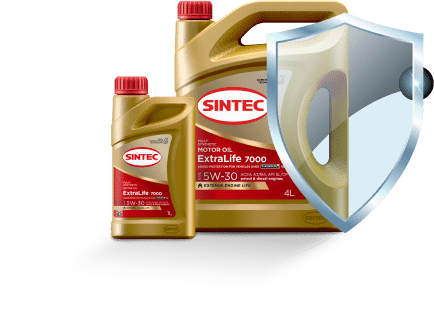
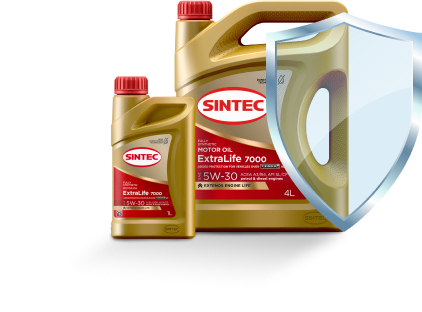
Заменяет картинку в блоке molybdenum

Changed region(s): [[0.2464, 0.0, 1.0, 0.7788]]

diff --git a/build/css/style.min.css b/build/css/style.min.css
@@ -1,2 +1,2 @@
-@charset "UTF-8";*,::after,::before{box-sizing:border-box}body{margin:0}img{max-width:100%;height:auto;object-fit:cover}a{text-decoration:none}.visually-hidden{position:absolute;width:1px;height:1px;margin:-1px;padding:0;border:0;clip:rect(0 0 0 0);overflow:hidden}@font-face{font-family:"Gotham";font-style:normal;font-weight:400;src:url(../fonts/gotham-regular.woff2),url(../fonts/gotham-regular.woff);font-display:swap}.page{height:100%}.page-body{display:grid;grid-template-rows:min-content 1fr min-content;min-width:360px;font-family:"Gotham","Arial",sans-serif;font-weight:400;font-size:14px;line-height:17px;color:#272424;background-color:#fff}.container{width:100%;max-width:1300px;padding:0 15px;margin:0 auto}@media (min-width:768px){.container{padding:0 30px}}.main-header{padding:40px 0 0;margin-bottom:-2px;background-image:url(../img/hero-bg-mobile@1x.png);background-repeat:no-repeat;background-size:cover}@media (min-resolution:2dppx){.main-header{background-image:url(../img/hero-bg-mobile@2x.png)}}@media (min-width:1360px){.main-header{padding:40px 0 0;margin:0;background-image:url(../img/hero-bg-desktop@1x.png)}}@media (min-width:1360px) and (min-resolution:2dppx){.main-header{background-image:url(../img/hero-bg-desktop@2x.png)}}.main-header__title{max-width:330px;margin:65px auto 68px;font-weight:400;font-size:32px;line-height:40px;text-transform:uppercase;text-align:center}@media (min-width:768px){.main-header__title{margin:-90px 0 0 7px;max-width:310px;text-align:left;justify-self:center}}@media (min-width:1360px){.main-header__title{max-width:585px;grid-column:1/7;grid-row:1/-1;font-size:60px;line-height:70px;justify-self:start}}@media (max-width:767px){.main-header__title-part{display:block;margin:0 0 0 10px}}.main-header__img{display:block;margin:0 auto;width:auto}@media (min-width:768px){.main-header__img{margin:0}}@media (min-width:1360px){.main-header__img{min-height:638px}.main-header__logo-img{width:93px;height:50px;margin-left:6px}}.main-header__wrapper{margin-left:-15px}@media (min-width:768px){.main-header__wrapper{display:grid;grid-template-columns:repeat(2,1fr);align-items:center;justify-content:center;column-gap:10px;padding:56px 0 0;margin:0}}@media (min-width:1360px){.main-header__wrapper{grid-template-columns:repeat(12,1fr);column-gap:5px;margin:-5px 0-3px}}.main-header__picture-wrapper{margin:0 0 0-170px}@media (min-width:768px){.main-header__picture-wrapper{justify-self:center}}@media (min-width:1360px){.main-header__picture-wrapper{grid-column:1/-1;grid-row:1/-1;justify-self:unset;margin:0-60px 0 390px}}@media (min-width:1360px) and (max-width:1420px){.main-header__picture-wrapper{margin:0-60px 0 350px}}.title{max-width:330px;margin:0 0 20px;font-weight:400;font-size:24px;line-height:32px;text-transform:uppercase}.title--accent{color:#fff}@media (min-width:1360px){.title{margin:0 0 60px;max-width:490px;font-size:38px;line-height:54px}}.lead{max-width:300px;margin:0 0 20px;font-weight:400;font-size:20px;line-height:24px}.lead--accent{color:#fff}@media (min-width:1360px){.lead{max-width:490px;font-size:32px;line-height:38px}}.message{max-width:300px;margin:0 0 20px;font-weight:400;font-size:14px;line-height:17px}.message--accent{color:#fff}@media (min-width:1360px){.message{font-size:18px;line-height:22px;max-width:490px}}.quality{position:relative;padding:40px 0;margin-bottom:-47px;background-image:url(../img/quality-bg-mobile@1x.png);background-repeat:no-repeat;background-size:cover}@media (min-resolution:2dppx){.quality{background-image:url(../img/quality-bg-mobile@2x.png)}}@media (min-width:768px){.quality{padding:60px 0 0;margin-bottom:0}}@media (min-width:1360px){.quality{padding:152px 0 0;margin-bottom:-2px;background-image:url(../img/quality-bg-desktop@1x.png)}}@media (min-width:1360px) and (min-resolution:2dppx){.quality{background-image:url(../img/quality-bg-desktop@2x.png)}}@media (min-width:768px){.quality__wrapper{display:grid;grid-template-columns:repeat(2,1fr);grid-template-rows:1fr;column-gap:10px;justify-content:center}}@media (min-width:1360px){.quality__wrapper{grid-template-columns:repeat(12,1fr);grid-template-rows:1fr;column-gap:5px}}@media (min-width:768px){.quality__text-wrapper{grid-column:2/-1;grid-row:1/-1;justify-self:center}}@media (min-width:1360px){.quality__text-wrapper{grid-column:9/-1;min-width:490px;margin-right:8px;justify-self:unset}}.quality__message{margin:0 0 318px}@media (min-width:768px){.quality__message{margin:0 0 20px}}@media (min-width:1360px){.quality__message{margin:0 0 60px}}.quality__picture-wrapper{margin:45px 0 0-165px;position:relative}@media (min-width:768px){.quality__picture-wrapper{grid-column:1/2;grid-row:1/-1;justify-self:center}}@media (min-width:1360px){.quality__picture-wrapper{grid-column:1/9;margin:0 0 0-325px;justify-self:unset}}.quality__img{position:absolute;bottom:50px;left:50%;display:block;margin:0 auto;width:auto;min-height:330px;transform:translateX(-50%)}@media (min-width:768px){.quality__img{margin:0;width:auto;position:static;bottom:unset;left:unset;transform:unset}}@media (min-width:1360px){.quality__img{min-height:630px}}@media (min-width:768px){.quality__button{max-width:305px}}.quality__break{display:none}@media (min-width:1360px){.quality__break{display:inline}}.button{display:block;padding:14px;font-family:inherit;font-size:14px;line-height:26px;text-align:center;border-radius:50px;text-decoration:none;cursor:pointer;transition:all .3s ease}.button--primary{color:#e2000f;background-color:#fff;border:1px solid #e2000f}.button--primary:hover{color:#fff;background-color:#e2000f}.button--primary:active{color:rgba(255,255,255,.6)}.button--secondary{color:#fff;background-color:transparent;border:1px solid #fff}.button--secondary:hover{color:#e2000f;background-color:#fff;border:1px solid #e2000f}.button--secondary:active{color:rgba(226,0,15,.3)}@media (min-width:1360px){.button{font-size:18px}}.assortment{position:relative;padding:40px 0 31px;background-image:url(../img/assortment-bg-mobile@1x.jpg);background-color:#e2000f;background-repeat:no-repeat;background-size:cover}@media (min-resolution:2dppx){.assortment{background-image:url(../img/assortment-bg-mobile@2x.jpg)}}@media (min-width:768px){.assortment{padding:60px 0}}@media (min-width:1360px){.assortment{padding:72px 0 67px;background-image:url(../img/assortment-bg-desktop@1x.jpg)}}@media (min-width:1360px) and (min-resolution:2dppx){.assortment{background-image:url(../img/assortment-bg-desktop@2x.jpg)}}@media (min-width:768px){.assortment__wrapper{display:grid;grid-template-columns:repeat(2,1fr);grid-template-rows:1fr;column-gap:10px;align-items:center}}@media (min-width:1360px){.assortment__wrapper{grid-template-columns:repeat(12,1fr);column-gap:5px}}@media (min-width:768px){.assortment__text-wrapper{grid-column:1/2;grid-row:1/-1;justify-self:center}}@media (min-width:1360px){.assortment__text-wrapper{grid-column:1/6;grid-row:1/-1;justify-self:start;margin-left:7px}}.assortment__picture-wrapper{margin:0-15px;position:relative}@media (min-width:768px){.assortment__picture-wrapper{grid-column:2/-1;grid-row:1/-1}}@media (min-width:1360px){.assortment__picture-wrapper{grid-column:5/-1;grid-row:1/-1;margin:114px -35px 0}}.assortment__lead{max-width:330px}@media (min-width:1360px){.assortment__lead{max-width:490px}}.assortment__message{margin:0 0 327px}@media (min-width:768px){.assortment__message{margin:0 0 20px}}@media (min-width:1360px){.assortment__message{margin:0 0 60px}}.assortment__img{position:absolute;bottom:57px;left:50%;display:block;margin:0 auto 24px;width:auto;min-height:243px;transform:translate(-50%)}@media (min-width:768px){.assortment__img{position:static;bottom:unset;left:unset;transform:unset;margin:0;align-self:end}}@media (min-width:1360px){.assortment__img{min-height:527px;margin-left:52px}}@media (min-width:768px){.assortment__button{padding:13px;max-width:223px}}.technology{padding:40px 0 0;margin-bottom:-53px;background-image:url(../img/technology-car-mobile@1x.png),url(../img/technology-bg-mobile@1x.png);background-repeat:no-repeat;background-size:contain,cover;background-position:right 0,center}@media (min-resolution:2dppx){.technology{background-image:url(../img/technology-car-mobile@2x.png),url(../img/technology-bg-mobile@2x.png)}}@media (min-width:768px){.technology{padding:60px 0 0;margin:0;background-position:right -10px top -50px,center}}@media (min-width:1360px){.technology{padding:45px 0 0;background-image:url(../img/technology-car-desktop@1x.png),url(../img/technology-bg-desktop@1x.png);background-position:right 0 top 0,center}}@media (min-width:1360px) and (min-resolution:2dppx){.technology{background-image:url(../img/technology-car-desktop@2x.png),url(../img/technology-bg-desktop@2x.png)}}.technology__wrapper{margin-left:-6px}@media (min-width:768px){.technology__wrapper{display:grid;grid-template-columns:repeat(2,1fr);grid-template-rows:1fr;column-gap:10px;align-items:center;margin:0}}@media (min-width:1360px){.technology__wrapper{grid-template-columns:repeat(12,1fr)}}.technology__text-wrapper{margin-left:6px}@media (min-width:768px){.technology__text-wrapper{justify-self:center;margin:0}}@media (min-width:1360px){.technology__text-wrapper{grid-column:1/6;grid-row:1/-1;margin-left:-4px}}.technology__picture-wrapper{margin:0 0 0-145px}@media (min-width:1360px){.technology__picture-wrapper{grid-column:1/-2;grid-row:1/-1;margin:117px -30px 0 370px}.technology__title{margin:0 0 37px}}.technology__message{max-width:330px}@media (min-width:1360px){.technology__message{max-width:490px}}.technology__comment{margin:0 0 42px;font-size:12px;line-height:14px;color:gray}@media (min-width:1360px){.technology__break{display:none}}.technology__img{display:block;margin:0 auto;width:auto;min-height:410px}@media (min-width:768px){.technology__img{margin:0}}@media (min-width:1360px){.technology__img{min-height:620px}}.expert{padding:60px 0 40px;background-image:url(../img/expert-bg-mobile@1x.png);background-repeat:no-repeat;background-size:cover}@media (min-resolution:2dppx){.expert{background-image:url(../img/expert-bg-mobile@2x.png)}}@media (min-width:361px){.expert{background-image:url(../img/expert-bg-desktop@1x.png)}}@media (min-width:361px) and (min-resolution:2dppx){.expert{background-image:url(../img/expert-bg-desktop@2x.png)}}@media (min-width:768px){.expert{padding:0}}@media (min-width:1360px){.expert{padding:265px 0 0;margin-bottom:-4px}}@media (min-width:768px){.expert__wrapper{display:grid;grid-template-columns:repeat(2,1fr);grid-template-rows:1fr;column-gap:10px;align-items:center}}@media (min-width:1360px){.expert__wrapper{grid-template-columns:repeat(12,1fr);column-gap:5px;align-items:unset}}@media (min-width:768px){.expert__text-wrapper{grid-column:2/-1;grid-row:1/-1;justify-self:center}}@media (min-width:1360px){.expert__text-wrapper{grid-column:8/-1;margin-left:6px}}.expert__picture-wrapper{margin:0 0 0-40px}@media (min-width:768px){.expert__picture-wrapper{justify-self:center}}@media (min-width:1360px){.expert__picture-wrapper{grid-column:1/8;margin:-115px 0 0-255px}}@media (min-width:1360px) and (max-width:1420px){.expert__picture-wrapper{margin:-115px 0 0-210px}}.expert__title{margin:0 0 40px}.expert__img{display:block;margin:-40px auto -46px;width:auto;min-height:365px}@media (min-width:768px){.expert__img{margin:0}}.main-footer{padding:40px 0;background-color:#005bff}@media (min-width:768px){.main-footer{padding:60px 0}}@media (min-width:1360px){.main-footer{padding:80px 0}}@media (min-width:768px){.main-footer__wrapper{display:flex;align-items:center;justify-content:center}}@media (min-width:1360px){.main-footer__wrapper{justify-content:start}}.main-footer__text{max-width:300px;margin:0 auto 20px;text-align:center;font-size:24px;line-height:32px}@media (min-width:768px){.main-footer__text{max-width:unset;margin:0 40px 0 0;text-align:left}}@media (min-width:1360px){.main-footer__text{margin:0 110px 0 9px;font-size:38px;line-height:54px}}.main-footer__link{display:flex;justify-content:center;align-items:center;padding:20px 40px;color:#005bff;background-color:#fff;border-radius:10px}.main-footer__link:hover{opacity:.8}.main-footer__link:active{opacity:.6}@media (min-width:768px){.main-footer__link{max-width:217px}}.case-header{padding:40px 0;background-image:url(../img/case/hero-bg-mobile@1x.png)}@media (min-resolution:2dppx){.case-header{background-image:url(../img/case/hero-bg-mobile@2x.png)}}@media (min-width:1360px){.case-header{background-image:url(../img/case/hero-bg-desktop@1x.png);padding:40px 0 0}}@media (min-width:1360px) and (min-resolution:2dppx){.case-header{background-image:url(../img/case/hero-bg-desktop@2x.png)}}.case-header__title{margin:18px auto;font-weight:400;font-size:32px;line-height:40px;text-align:center}@media (min-width:768px){.case-header__title{text-align:left;justify-self:center}}@media (min-width:1360px){.case-header__title{margin:0 0 40px;font-size:60px;line-height:70px;justify-self:start}}.case-header__part{text-transform:uppercase}.case-header__lead{margin:0 auto 315px;text-align:center}@media (min-width:768px){.case-header__lead{margin:0 0 40px;max-width:600px;text-align:left}}@media (min-width:1360px){.case-header__lead{margin:0 0 60px}}.case-header__lead span{display:block}.case-header__text{min-width:320px;margin:0 0 0-10px}@media (min-width:768px){.case-header__text{margin:0}}.case-header__text-wrapper{margin:0 0 0 130px}@media (min-width:768px){.case-header__text-wrapper{margin:0;justify-self:center}}@media (min-width:1360px){.case-header__text-wrapper{grid-column:1/7;grid-row:1/-1;justify-self:unset;margin:-95px 0 0 10px}}.case-header__img{position:absolute;top:152px;left:50%;display:block;margin:0 auto;width:auto;min-height:302px;transform:translate(-50%)}@media (min-width:768px){.case-header__img{position:static;top:unset;left:unset;transform:unset;margin:0 0 0-50px}}.case-header__wrapper{position:relative;margin:0 0 0-140px}@media (min-width:768px){.case-header__wrapper{display:grid;grid-template-columns:repeat(2,1fr);align-items:center;justify-content:center;column-gap:70px;margin:0}}@media (min-width:1360px){.case-header__wrapper{grid-template-columns:repeat(12,1fr);column-gap:5px;margin:0-80px 0 0}}@media (min-width:1360px) and (max-width:1560px){.case-header__wrapper{margin:0}}@media (min-width:768px){.case-header__picture-wrapper{justify-self:center;margin:0 0 0-50px}}@media (min-width:1360px){.case-header__picture-wrapper{grid-column:5/-1;grid-row:1/-1;justify-self:unset;margin:-5px -80px 0-15px}}@media (min-width:1360px) and (max-width:1560px){.case-header__picture-wrapper{margin:0}}.case-header__button{margin:10px 0 0;font-size:18px;display:none}@media (min-width:768px){.case-header__button{max-width:270px}}.alkali{padding:40px 0 70px;margin:0 0-1px;background-image:url(../img/case/alkali-bg-mobile@1x.png);background-repeat:no-repeat;background-size:cover}@media (min-resolution:2dppx){.alkali{background-image:url(../img/case/alkali-bg-mobile@2x.png)}}@media (min-width:1360px){.alkali{background-image:url(../img/case/alkali-bg-desktop@1x.png);padding:158px 0 0;margin:0 0-4px}}@media (min-width:1360px) and (min-resolution:2dppx){.alkali{background-image:url(../img/case/alkali-bg-desktop@2x.png)}}.alkali__title{margin:0 0 72px}@media (min-width:768px){.alkali__title{text-align:left;justify-self:center;margin:0}}@media (min-width:1360px){.alkali__title{justify-self:start;align-self:center}}@media (min-width:768px){.alkali__text-wrapper{grid-column:2/-1;grid-row:1/-1;justify-self:center}}@media (min-width:1360px){.alkali__text-wrapper{grid-column:8/-1;grid-row:1/-1;justify-self:unset;margin:-160px 0 0 20px}}.alkali__img{display:block;margin:0 auto;width:auto;min-height:330px}@media (min-width:1360px){.alkali__img{min-height:625px}}@media (min-width:768px){.alkali__wrapper{display:grid;grid-template-columns:repeat(2,1fr);align-items:center;justify-content:center;column-gap:70px;margin:0}}@media (min-width:1360px){.alkali__wrapper{grid-template-columns:repeat(12,1fr);column-gap:5px}}.alkali__picture-wrapper{margin:0 0 0-20px}@media (min-width:768px){.alkali__picture-wrapper{justify-self:center}}@media (min-width:1360px){.alkali__picture-wrapper{margin:0 0 0-190px;grid-column:1/7;grid-row:1/-1;justify-self:unset}}.stability{padding:40px 0 39px;background-image:url(../img/assortment-bg-mobile@1x.jpg);background-repeat:no-repeat;background-size:cover}@media (min-resolution:2dppx){.stability{background-image:url(../img/assortment-bg-mobile@2x.jpg)}}@media (min-width:1360px){.stability{background-image:url(../img/assortment-bg-desktop@1x.jpg);padding:148px 0}}@media (min-width:1360px) and (min-resolution:2dppx){.stability{background-image:url(../img/assortment-bg-desktop@2x.jpg)}}@media (min-width:1360px){.stability__title{margin:0 0 20px;max-width:595px}}.stability__message{margin:0 0 60px;max-width:330px}@media (min-width:768px){.stability__message{margin:0}}@media (min-width:1360px){.stability__message{max-width:560px}}@media (min-width:768px){.stability__break{display:none}.stability__text-wrapper{grid-column:1/2;grid-row:1/-1;justify-self:center}}@media (min-width:1360px){.stability__text-wrapper{grid-column:1/7;grid-row:1/-1;justify-self:unset;margin:0 0 0 10px}}.stability__img{display:block;margin:0 auto;width:auto;min-height:270px}@media (min-width:1360px){.stability__img{min-height:484px}}@media (min-width:768px){.stability__wrapper{display:grid;grid-template-columns:repeat(2,1fr);align-items:center;justify-content:center;column-gap:70px}}@media (min-width:1360px){.stability__wrapper{grid-template-columns:repeat(12,1fr);column-gap:30px}}@media (min-width:768px){.stability__picture-wrapper{justify-self:center;grid-column:2/-1;grid-row:1/-1}}@media (min-width:1360px){.stability__picture-wrapper{grid-column:7/-1;grid-row:1/-1;justify-self:unset}}.molybdenum{padding:110px 0 0;background-image:url(../img/case/molybdenum-bg-mobile@1x.png);background-repeat:no-repeat;background-size:cover}@media (min-resolution:2dppx){.molybdenum{background-image:url(../img/case/molybdenum-bg-mobile@2x.png)}}@media (min-width:768px){.molybdenum{padding:40px 0 0}}@media (min-width:1360px){.molybdenum{background-image:url(../img/case/molybdenum-bg-desktop@1x.png);padding:142px 0 0;margin:0 0-4px}}@media (min-width:1360px) and (min-resolution:2dppx){.molybdenum{background-image:url(../img/case/molybdenum-bg-desktop@2x.png)}}.molybdenum__title{margin:0 0 76px}@media (min-width:768px){.molybdenum__title{margin:0}.molybdenum__text-wrapper{grid-column:1/2;grid-row:1/-1;justify-self:center;margin:-40px 0 0}}@media (min-width:1360px){.molybdenum__text-wrapper{grid-column:1/6;grid-row:1/-1;justify-self:unset;margin:-145px 0 0 5px}}.molybdenum__img{display:block;margin:0 auto;width:auto;min-height:310px}@media (min-width:1360px){.molybdenum__img{min-height:642px}}@media (min-width:768px){.molybdenum__wrapper{display:grid;grid-template-columns:repeat(2,1fr);align-items:center;justify-content:center;column-gap:70px}}@media (min-width:1360px){.molybdenum__wrapper{grid-template-columns:repeat(12,1fr);column-gap:30px}}.molybdenum__picture-wrapper{margin:0 0 0-95px}@media (min-width:768px){.molybdenum__picture-wrapper{justify-self:center;grid-column:2/-1;grid-row:1/-1}}@media (min-width:1360px){.molybdenum__picture-wrapper{grid-column:4/-1;grid-row:1/-1;justify-self:unset;margin:0 0 0 80px}}.antiwear{padding:25px 0 0;margin:0 0-32px;background-image:url(../img/case/antiwear-car-mobile@1x.png),url(../img/case/antiwear-bg-mobile@1x.png);background-repeat:no-repeat;background-size:contain,cover;background-position:left 0 top -18px,center}@media (min-resolution:2dppx){.antiwear{background-image:url(../img/case/antiwear-car-mobile@2x.png),url(../img/case/antiwear-bg-mobile@2x.png)}}@media (min-width:768px){.antiwear{padding:25px 0 0;margin:0}}@media (min-width:1360px){.antiwear{background-image:url(../img/case/antiwear-car-desktop@1x.png),url(../img/case/antiwear-bg-desktop@1x.png);padding:127px 0 2px;background-position:left 0 top 0,center}}@media (min-width:1360px) and (min-resolution:2dppx){.antiwear{background-image:url(../img/case/antiwear-car-desktop@2x.png),url(../img/case/antiwear-bg-desktop@2x.png)}}@media (min-width:1360px) and (max-width:1850px){.antiwear{background-position:left -220px top 0,center}}.antiwear__title{margin:0 0 93px}@media (min-width:768px){.antiwear__title{margin:0}.antiwear__text-wrapper{grid-column:2/-1;grid-row:1/-1;justify-self:center}}@media (min-width:1360px){.antiwear__text-wrapper{grid-column:8/-1;grid-row:1/-1;justify-self:unset;margin:-120px 0 0}}.antiwear__img{display:block;margin:0 auto;width:auto;min-height:410px}@media (min-width:1360px){.antiwear__img{min-height:650px}}@media (min-width:768px){.antiwear__wrapper{display:grid;grid-template-columns:repeat(2,1fr);align-items:center;justify-content:center;column-gap:70px}}@media (min-width:1360px){.antiwear__wrapper{grid-template-columns:repeat(12,1fr);column-gap:30px}}.antiwear__picture-wrapper{margin:0 0 0-80px}@media (min-width:768px){.antiwear__picture-wrapper{justify-self:center;grid-column:1/2;grid-row:1/-1}}@media (min-width:1360px){.antiwear__picture-wrapper{grid-column:1/7;grid-row:1/-1;justify-self:unset;margin:0 0 0-190px}}
+@charset "UTF-8";*,::after,::before{box-sizing:border-box}body{margin:0}img{max-width:100%;height:auto;object-fit:cover}a{text-decoration:none}.visually-hidden{position:absolute;width:1px;height:1px;margin:-1px;padding:0;border:0;clip:rect(0 0 0 0);overflow:hidden}@font-face{font-family:"Gotham";font-style:normal;font-weight:400;src:url(../fonts/gotham-regular.woff2),url(../fonts/gotham-regular.woff);font-display:swap}.page{height:100%}.page-body{display:grid;grid-template-rows:min-content 1fr min-content;min-width:360px;font-family:"Gotham","Arial",sans-serif;font-weight:400;font-size:14px;line-height:17px;color:#272424;background-color:#fff}.container{width:100%;max-width:1300px;padding:0 15px;margin:0 auto}@media (min-width:768px){.container{padding:0 30px}}.main-header{padding:40px 0 0;margin-bottom:-2px;background-image:url(../img/hero-bg-mobile@1x.png);background-repeat:no-repeat;background-size:cover}@media (min-resolution:2dppx){.main-header{background-image:url(../img/hero-bg-mobile@2x.png)}}@media (min-width:1360px){.main-header{padding:40px 0 0;margin:0;background-image:url(../img/hero-bg-desktop@1x.png)}}@media (min-width:1360px) and (min-resolution:2dppx){.main-header{background-image:url(../img/hero-bg-desktop@2x.png)}}.main-header__title{max-width:330px;margin:65px auto 68px;font-weight:400;font-size:32px;line-height:40px;text-transform:uppercase;text-align:center}@media (min-width:768px){.main-header__title{margin:-90px 0 0 7px;max-width:310px;text-align:left;justify-self:center}}@media (min-width:1360px){.main-header__title{max-width:585px;grid-column:1/7;grid-row:1/-1;font-size:60px;line-height:70px;justify-self:start}}@media (max-width:767px){.main-header__title-part{display:block;margin:0 0 0 10px}}.main-header__img{display:block;margin:0 auto;width:auto}@media (min-width:768px){.main-header__img{margin:0}}@media (min-width:1360px){.main-header__img{min-height:638px}.main-header__logo-img{width:93px;height:50px;margin-left:6px}}.main-header__wrapper{margin-left:-15px}@media (min-width:768px){.main-header__wrapper{display:grid;grid-template-columns:repeat(2,1fr);align-items:center;justify-content:center;column-gap:10px;padding:56px 0 0;margin:0}}@media (min-width:1360px){.main-header__wrapper{grid-template-columns:repeat(12,1fr);column-gap:5px;margin:-5px 0-3px}}.main-header__picture-wrapper{margin:0 0 0-170px}@media (min-width:768px){.main-header__picture-wrapper{justify-self:center}}@media (min-width:1360px){.main-header__picture-wrapper{grid-column:1/-1;grid-row:1/-1;justify-self:unset;margin:0-60px 0 390px}}@media (min-width:1360px) and (max-width:1420px){.main-header__picture-wrapper{margin:0-60px 0 350px}}.title{max-width:330px;margin:0 0 20px;font-weight:400;font-size:24px;line-height:32px;text-transform:uppercase}.title--accent{color:#fff}@media (min-width:1360px){.title{margin:0 0 60px;max-width:490px;font-size:38px;line-height:54px}}.lead{max-width:300px;margin:0 0 20px;font-weight:400;font-size:20px;line-height:24px}.lead--accent{color:#fff}@media (min-width:1360px){.lead{max-width:490px;font-size:32px;line-height:38px}}.message{max-width:300px;margin:0 0 20px;font-weight:400;font-size:14px;line-height:17px}.message--accent{color:#fff}@media (min-width:1360px){.message{font-size:18px;line-height:22px;max-width:490px}}.quality{position:relative;padding:40px 0;margin-bottom:-47px;background-image:url(../img/quality-bg-mobile@1x.png);background-repeat:no-repeat;background-size:cover}@media (min-resolution:2dppx){.quality{background-image:url(../img/quality-bg-mobile@2x.png)}}@media (min-width:768px){.quality{padding:60px 0 0;margin-bottom:0}}@media (min-width:1360px){.quality{padding:152px 0 0;margin-bottom:-2px;background-image:url(../img/quality-bg-desktop@1x.png)}}@media (min-width:1360px) and (min-resolution:2dppx){.quality{background-image:url(../img/quality-bg-desktop@2x.png)}}@media (min-width:768px){.quality__wrapper{display:grid;grid-template-columns:repeat(2,1fr);grid-template-rows:1fr;column-gap:10px;justify-content:center}}@media (min-width:1360px){.quality__wrapper{grid-template-columns:repeat(12,1fr);grid-template-rows:1fr;column-gap:5px}}@media (min-width:768px){.quality__text-wrapper{grid-column:2/-1;grid-row:1/-1;justify-self:center}}@media (min-width:1360px){.quality__text-wrapper{grid-column:9/-1;min-width:490px;margin-right:8px;justify-self:unset}}.quality__message{margin:0 0 318px}@media (min-width:768px){.quality__message{margin:0 0 20px}}@media (min-width:1360px){.quality__message{margin:0 0 60px}}.quality__picture-wrapper{margin:45px 0 0-165px;position:relative}@media (min-width:768px){.quality__picture-wrapper{grid-column:1/2;grid-row:1/-1;justify-self:center}}@media (min-width:1360px){.quality__picture-wrapper{grid-column:1/9;margin:0 0 0-325px;justify-self:unset}}.quality__img{position:absolute;bottom:50px;left:50%;display:block;margin:0 auto;width:auto;min-height:330px;transform:translateX(-50%)}@media (min-width:768px){.quality__img{margin:0;width:auto;position:static;bottom:unset;left:unset;transform:unset}}@media (min-width:1360px){.quality__img{min-height:630px}}@media (min-width:768px){.quality__button{max-width:305px}}.quality__break{display:none}@media (min-width:1360px){.quality__break{display:inline}}.button{display:block;padding:14px;font-family:inherit;font-size:14px;line-height:26px;text-align:center;border-radius:50px;text-decoration:none;cursor:pointer;transition:all .3s ease}.button--primary{color:#e2000f;background-color:#fff;border:1px solid #e2000f}.button--primary:hover{color:#fff;background-color:#e2000f}.button--primary:active{color:rgba(255,255,255,.6)}.button--secondary{color:#fff;background-color:transparent;border:1px solid #fff}.button--secondary:hover{color:#e2000f;background-color:#fff;border:1px solid #e2000f}.button--secondary:active{color:rgba(226,0,15,.3)}@media (min-width:1360px){.button{font-size:18px}}.assortment{position:relative;padding:40px 0 31px;background-image:url(../img/assortment-bg-mobile@1x.jpg);background-color:#e2000f;background-repeat:no-repeat;background-size:cover}@media (min-resolution:2dppx){.assortment{background-image:url(../img/assortment-bg-mobile@2x.jpg)}}@media (min-width:768px){.assortment{padding:60px 0}}@media (min-width:1360px){.assortment{padding:72px 0 67px;background-image:url(../img/assortment-bg-desktop@1x.jpg)}}@media (min-width:1360px) and (min-resolution:2dppx){.assortment{background-image:url(../img/assortment-bg-desktop@2x.jpg)}}@media (min-width:768px){.assortment__wrapper{display:grid;grid-template-columns:repeat(2,1fr);grid-template-rows:1fr;column-gap:10px;align-items:center}}@media (min-width:1360px){.assortment__wrapper{grid-template-columns:repeat(12,1fr);column-gap:5px}}@media (min-width:768px){.assortment__text-wrapper{grid-column:1/2;grid-row:1/-1;justify-self:center}}@media (min-width:1360px){.assortment__text-wrapper{grid-column:1/6;grid-row:1/-1;justify-self:start;margin-left:7px}}.assortment__picture-wrapper{margin:0-15px;position:relative}@media (min-width:768px){.assortment__picture-wrapper{grid-column:2/-1;grid-row:1/-1}}@media (min-width:1360px){.assortment__picture-wrapper{grid-column:5/-1;grid-row:1/-1;margin:114px -35px 0}}.assortment__lead{max-width:330px}@media (min-width:1360px){.assortment__lead{max-width:490px}}.assortment__message{margin:0 0 327px}@media (min-width:768px){.assortment__message{margin:0 0 20px}}@media (min-width:1360px){.assortment__message{margin:0 0 60px}}.assortment__img{position:absolute;bottom:57px;left:50%;display:block;margin:0 auto 24px;width:auto;min-height:243px;transform:translate(-50%)}@media (min-width:768px){.assortment__img{position:static;bottom:unset;left:unset;transform:unset;margin:0;align-self:end}}@media (min-width:1360px){.assortment__img{min-height:527px;margin-left:52px}}@media (min-width:768px){.assortment__button{padding:13px;max-width:223px}}.technology{padding:40px 0 0;margin-bottom:-53px;background-image:url(../img/technology-car-mobile@1x.png),url(../img/technology-bg-mobile@1x.png);background-repeat:no-repeat;background-size:contain,cover;background-position:right 0,center}@media (min-resolution:2dppx){.technology{background-image:url(../img/technology-car-mobile@2x.png),url(../img/technology-bg-mobile@2x.png)}}@media (min-width:768px){.technology{padding:60px 0 0;margin:0;background-position:right -10px top -50px,center}}@media (min-width:1360px){.technology{padding:45px 0 0;background-image:url(../img/technology-car-desktop@1x.png),url(../img/technology-bg-desktop@1x.png);background-position:right 0 top 0,center}}@media (min-width:1360px) and (min-resolution:2dppx){.technology{background-image:url(../img/technology-car-desktop@2x.png),url(../img/technology-bg-desktop@2x.png)}}.technology__wrapper{margin-left:-6px}@media (min-width:768px){.technology__wrapper{display:grid;grid-template-columns:repeat(2,1fr);grid-template-rows:1fr;column-gap:10px;align-items:center;margin:0}}@media (min-width:1360px){.technology__wrapper{grid-template-columns:repeat(12,1fr)}}.technology__text-wrapper{margin-left:6px}@media (min-width:768px){.technology__text-wrapper{justify-self:center;margin:0}}@media (min-width:1360px){.technology__text-wrapper{grid-column:1/6;grid-row:1/-1;margin-left:-4px}}.technology__picture-wrapper{margin:0 0 0-145px}@media (min-width:1360px){.technology__picture-wrapper{grid-column:1/-2;grid-row:1/-1;margin:117px -30px 0 370px}.technology__title{margin:0 0 37px}}.technology__message{max-width:330px}@media (min-width:1360px){.technology__message{max-width:490px}}.technology__comment{margin:0 0 42px;font-size:12px;line-height:14px;color:gray}@media (min-width:1360px){.technology__break{display:none}}.technology__img{display:block;margin:0 auto;width:auto;min-height:410px}@media (min-width:768px){.technology__img{margin:0}}@media (min-width:1360px){.technology__img{min-height:620px}}.expert{padding:60px 0 40px;background-image:url(../img/expert-bg-mobile@1x.png);background-repeat:no-repeat;background-size:cover}@media (min-resolution:2dppx){.expert{background-image:url(../img/expert-bg-mobile@2x.png)}}@media (min-width:361px){.expert{background-image:url(../img/expert-bg-desktop@1x.png)}}@media (min-width:361px) and (min-resolution:2dppx){.expert{background-image:url(../img/expert-bg-desktop@2x.png)}}@media (min-width:768px){.expert{padding:0}}@media (min-width:1360px){.expert{padding:265px 0 0;margin-bottom:-4px}}@media (min-width:768px){.expert__wrapper{display:grid;grid-template-columns:repeat(2,1fr);grid-template-rows:1fr;column-gap:10px;align-items:center}}@media (min-width:1360px){.expert__wrapper{grid-template-columns:repeat(12,1fr);column-gap:5px;align-items:unset}}@media (min-width:768px){.expert__text-wrapper{grid-column:2/-1;grid-row:1/-1;justify-self:center}}@media (min-width:1360px){.expert__text-wrapper{grid-column:8/-1;margin-left:6px}}.expert__picture-wrapper{margin:0 0 0-40px}@media (min-width:768px){.expert__picture-wrapper{justify-self:center}}@media (min-width:1360px){.expert__picture-wrapper{grid-column:1/8;margin:-115px 0 0-255px}}@media (min-width:1360px) and (max-width:1420px){.expert__picture-wrapper{margin:-115px 0 0-210px}}.expert__title{margin:0 0 40px}.expert__img{display:block;margin:-40px auto -46px;width:auto;min-height:365px}@media (min-width:768px){.expert__img{margin:0}}.main-footer{padding:40px 0;background-color:#005bff}@media (min-width:768px){.main-footer{padding:60px 0}}@media (min-width:1360px){.main-footer{padding:80px 0}}@media (min-width:768px){.main-footer__wrapper{display:flex;align-items:center;justify-content:center}}@media (min-width:1360px){.main-footer__wrapper{justify-content:start}}.main-footer__text{max-width:300px;margin:0 auto 20px;text-align:center;font-size:24px;line-height:32px}@media (min-width:768px){.main-footer__text{max-width:unset;margin:0 40px 0 0;text-align:left}}@media (min-width:1360px){.main-footer__text{margin:0 110px 0 9px;font-size:38px;line-height:54px}}.main-footer__link{display:flex;justify-content:center;align-items:center;padding:20px 40px;color:#005bff;background-color:#fff;border-radius:10px}.main-footer__link:hover{opacity:.8}.main-footer__link:active{opacity:.6}@media (min-width:768px){.main-footer__link{max-width:217px}}.case-header{padding:40px 0;background-image:url(../img/case/hero-bg-mobile@1x.png)}@media (min-resolution:2dppx){.case-header{background-image:url(../img/case/hero-bg-mobile@2x.png)}}@media (min-width:1360px){.case-header{background-image:url(../img/case/hero-bg-desktop@1x.png);padding:40px 0 0}}@media (min-width:1360px) and (min-resolution:2dppx){.case-header{background-image:url(../img/case/hero-bg-desktop@2x.png)}}.case-header__title{margin:18px auto;font-weight:400;font-size:32px;line-height:40px;text-align:center}@media (min-width:768px){.case-header__title{text-align:left;justify-self:center}}@media (min-width:1360px){.case-header__title{margin:0 0 40px;font-size:60px;line-height:70px;justify-self:start}}.case-header__part{text-transform:uppercase}.case-header__lead{margin:0 auto 315px;text-align:center}@media (min-width:768px){.case-header__lead{margin:0 0 40px;max-width:600px;text-align:left}}@media (min-width:1360px){.case-header__lead{margin:0 0 60px}}.case-header__lead span{display:block}.case-header__text{min-width:320px;margin:0 0 0-10px}@media (min-width:768px){.case-header__text{margin:0}}.case-header__text-wrapper{margin:0 0 0 130px}@media (min-width:768px){.case-header__text-wrapper{margin:0;justify-self:center}}@media (min-width:1360px){.case-header__text-wrapper{grid-column:1/7;grid-row:1/-1;justify-self:unset;margin:-95px 0 0 10px}}.case-header__img{position:absolute;top:152px;left:50%;display:block;margin:0 auto;width:auto;min-height:302px;transform:translate(-50%)}@media (min-width:768px){.case-header__img{position:static;top:unset;left:unset;transform:unset;margin:0 0 0-50px}}.case-header__wrapper{position:relative;margin:0 0 0-140px}@media (min-width:768px){.case-header__wrapper{display:grid;grid-template-columns:repeat(2,1fr);align-items:center;justify-content:center;column-gap:70px;margin:0}}@media (min-width:1360px){.case-header__wrapper{grid-template-columns:repeat(12,1fr);column-gap:5px;margin:0-80px 0 0}}@media (min-width:1360px) and (max-width:1560px){.case-header__wrapper{margin:0}}@media (min-width:768px){.case-header__picture-wrapper{justify-self:center;margin:0 0 0-50px}}@media (min-width:1360px){.case-header__picture-wrapper{grid-column:5/-1;grid-row:1/-1;justify-self:unset;margin:-5px -80px 0-15px}}@media (min-width:1360px) and (max-width:1560px){.case-header__picture-wrapper{margin:0}}.case-header__button{margin:10px 0 0;font-size:18px;display:none}@media (min-width:768px){.case-header__button{max-width:270px}}.alkali{padding:40px 0 70px;margin:0 0-1px;background-image:url(../img/case/alkali-bg-mobile@1x.png);background-repeat:no-repeat;background-size:cover}@media (min-resolution:2dppx){.alkali{background-image:url(../img/case/alkali-bg-mobile@2x.png)}}@media (min-width:1360px){.alkali{background-image:url(../img/case/alkali-bg-desktop@1x.png);padding:158px 0 0;margin:0 0-4px}}@media (min-width:1360px) and (min-resolution:2dppx){.alkali{background-image:url(../img/case/alkali-bg-desktop@2x.png)}}.alkali__title{margin:0 0 72px}@media (min-width:768px){.alkali__title{text-align:left;justify-self:center;margin:0}}@media (min-width:1360px){.alkali__title{justify-self:start;align-self:center}}@media (min-width:768px){.alkali__text-wrapper{grid-column:2/-1;grid-row:1/-1;justify-self:center}}@media (min-width:1360px){.alkali__text-wrapper{grid-column:8/-1;grid-row:1/-1;justify-self:unset;margin:-160px 0 0 20px}}.alkali__img{display:block;margin:0 auto;width:auto;min-height:330px}@media (min-width:1360px){.alkali__img{min-height:625px}}@media (min-width:768px){.alkali__wrapper{display:grid;grid-template-columns:repeat(2,1fr);align-items:center;justify-content:center;column-gap:70px;margin:0}}@media (min-width:1360px){.alkali__wrapper{grid-template-columns:repeat(12,1fr);column-gap:5px}}.alkali__picture-wrapper{margin:0 0 0-20px}@media (min-width:768px){.alkali__picture-wrapper{justify-self:center}}@media (min-width:1360px){.alkali__picture-wrapper{margin:0 0 0-190px;grid-column:1/7;grid-row:1/-1;justify-self:unset}}.stability{padding:40px 0 39px;background-image:url(../img/assortment-bg-mobile@1x.jpg);background-repeat:no-repeat;background-size:cover}@media (min-resolution:2dppx){.stability{background-image:url(../img/assortment-bg-mobile@2x.jpg)}}@media (min-width:1360px){.stability{background-image:url(../img/assortment-bg-desktop@1x.jpg);padding:148px 0}}@media (min-width:1360px) and (min-resolution:2dppx){.stability{background-image:url(../img/assortment-bg-desktop@2x.jpg)}}@media (min-width:1360px){.stability__title{margin:0 0 20px;max-width:595px}}.stability__message{margin:0 0 60px;max-width:330px}@media (min-width:768px){.stability__message{margin:0}}@media (min-width:1360px){.stability__message{max-width:560px}}@media (min-width:768px){.stability__break{display:none}.stability__text-wrapper{grid-column:1/2;grid-row:1/-1;justify-self:center}}@media (min-width:1360px){.stability__text-wrapper{grid-column:1/7;grid-row:1/-1;justify-self:unset;margin:0 0 0 10px}}.stability__img{display:block;margin:0 auto;width:auto;min-height:270px}@media (min-width:1360px){.stability__img{min-height:484px}}@media (min-width:768px){.stability__wrapper{display:grid;grid-template-columns:repeat(2,1fr);align-items:center;justify-content:center;column-gap:70px}}@media (min-width:1360px){.stability__wrapper{grid-template-columns:repeat(12,1fr);column-gap:30px}}@media (min-width:768px){.stability__picture-wrapper{justify-self:center;grid-column:2/-1;grid-row:1/-1}}@media (min-width:1360px){.stability__picture-wrapper{grid-column:7/-1;grid-row:1/-1;justify-self:unset}}.molybdenum{padding:110px 0 0;background-image:url(../img/case/molybdenum-bg-mobile@1x.png);background-repeat:no-repeat;background-size:cover}@media (min-resolution:2dppx){.molybdenum{background-image:url(../img/case/molybdenum-bg-mobile@2x.png)}}@media (min-width:768px){.molybdenum{padding:40px 0 0}}@media (min-width:1360px){.molybdenum{background-image:url(../img/case/molybdenum-bg-desktop@1x.png);padding:142px 0 0;margin:0 0-4px}}@media (min-width:1360px) and (min-resolution:2dppx){.molybdenum{background-image:url(../img/case/molybdenum-bg-desktop@2x.png)}}.molybdenum__title{margin:0 0 76px}@media (min-width:768px){.molybdenum__title{margin:0}.molybdenum__text-wrapper{grid-column:1/2;grid-row:1/-1;justify-self:center;margin:-40px 0 0}}@media (min-width:1360px){.molybdenum__text-wrapper{grid-column:1/6;grid-row:1/-1;justify-self:unset;margin:-145px 0 0 5px}}.molybdenum__img{display:block;margin:0 auto;width:auto}@media (min-width:1360px){.molybdenum__img{min-height:642px}}@media (min-width:768px){.molybdenum__wrapper{display:grid;grid-template-columns:repeat(2,1fr);align-items:center;justify-content:center;column-gap:70px}}@media (min-width:1360px){.molybdenum__wrapper{grid-template-columns:repeat(12,1fr);column-gap:30px}}.molybdenum__picture-wrapper{margin:0 0 0-15px}@media (min-width:768px){.molybdenum__picture-wrapper{justify-self:center;grid-column:2/-1;grid-row:1/-1}}@media (min-width:1360px){.molybdenum__picture-wrapper{grid-column:4/-1;grid-row:1/-1;justify-self:unset;margin:0 0 0 80px}}.antiwear{padding:40px 0 0;margin:0 0-32px;background-image:url(../img/case/antiwear-car-mobile@1x.png),url(../img/case/antiwear-bg-mobile@1x.png);background-repeat:no-repeat;background-size:contain,cover;background-position:left 0 top -18px,center}@media (min-resolution:2dppx){.antiwear{background-image:url(../img/case/antiwear-car-mobile@2x.png),url(../img/case/antiwear-bg-mobile@2x.png)}}@media (min-width:768px){.antiwear{padding:25px 0 0;margin:0}}@media (min-width:1360px){.antiwear{background-image:url(../img/case/antiwear-car-desktop@1x.png),url(../img/case/antiwear-bg-desktop@1x.png);padding:127px 0 2px;background-position:left 0 top 0,center}}@media (min-width:1360px) and (min-resolution:2dppx){.antiwear{background-image:url(../img/case/antiwear-car-desktop@2x.png),url(../img/case/antiwear-bg-desktop@2x.png)}}@media (min-width:1360px) and (max-width:1850px){.antiwear{background-position:left -220px top 0,center}}.antiwear__title{margin:0 0 93px}@media (min-width:768px){.antiwear__title{margin:0}.antiwear__text-wrapper{grid-column:2/-1;grid-row:1/-1;justify-self:center}}@media (min-width:1360px){.antiwear__text-wrapper{grid-column:8/-1;grid-row:1/-1;justify-self:unset;margin:-120px 0 0}}.antiwear__img{display:block;margin:0 auto;width:auto;min-height:410px}@media (min-width:1360px){.antiwear__img{min-height:650px}}@media (min-width:768px){.antiwear__wrapper{display:grid;grid-template-columns:repeat(2,1fr);align-items:center;justify-content:center;column-gap:70px}}@media (min-width:1360px){.antiwear__wrapper{grid-template-columns:repeat(12,1fr);column-gap:30px}}.antiwear__picture-wrapper{margin:0 0 0-80px}@media (min-width:768px){.antiwear__picture-wrapper{justify-self:center;grid-column:1/2;grid-row:1/-1}}@media (min-width:1360px){.antiwear__picture-wrapper{grid-column:1/7;grid-row:1/-1;justify-self:unset;margin:0 0 0-190px}}
 /*# sourceMappingURL=style.min.css.map */

diff --git a/source/sass/blocks/molybdenum.scss b/source/sass/blocks/molybdenum.scss
@@ -53,7 +53,6 @@
   display: block;
   margin: 0 auto;
   width: auto;
-  min-height: 310px;
 
   @media (min-width: var.$desktop-width) {
     min-height: 642px;
@@ -76,7 +75,7 @@
 }
 
 .molybdenum__picture-wrapper {
-  margin: 0 0 0 -95px;
+  margin: 0 0 0 -15px;
 
   @media (min-width: var.$tablet-width) {
     justify-self: center;

diff --git a/source/sass/blocks/antiwear.scss b/source/sass/blocks/antiwear.scss
@@ -1,7 +1,7 @@
 @use "../global/variable.scss" as var;
 
 .antiwear {
-  padding: 25px 0 0 0;
+  padding: 40px 0 0 0;
   margin: 0 0 -32px 0;
   background-image: url("../img/case/antiwear-car-mobile@1x.png"),
     url("../img/case/antiwear-bg-mobile@1x.png");
